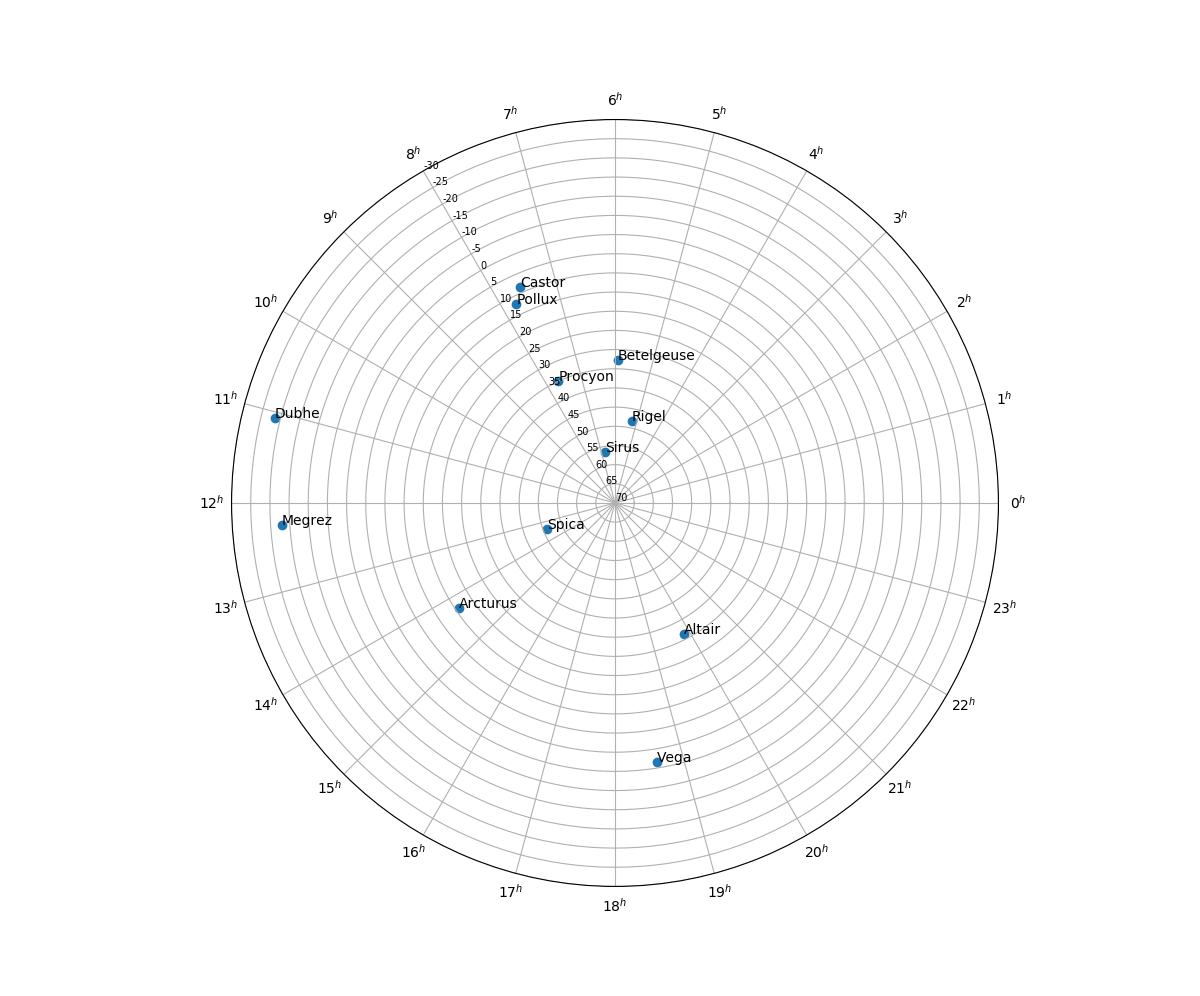
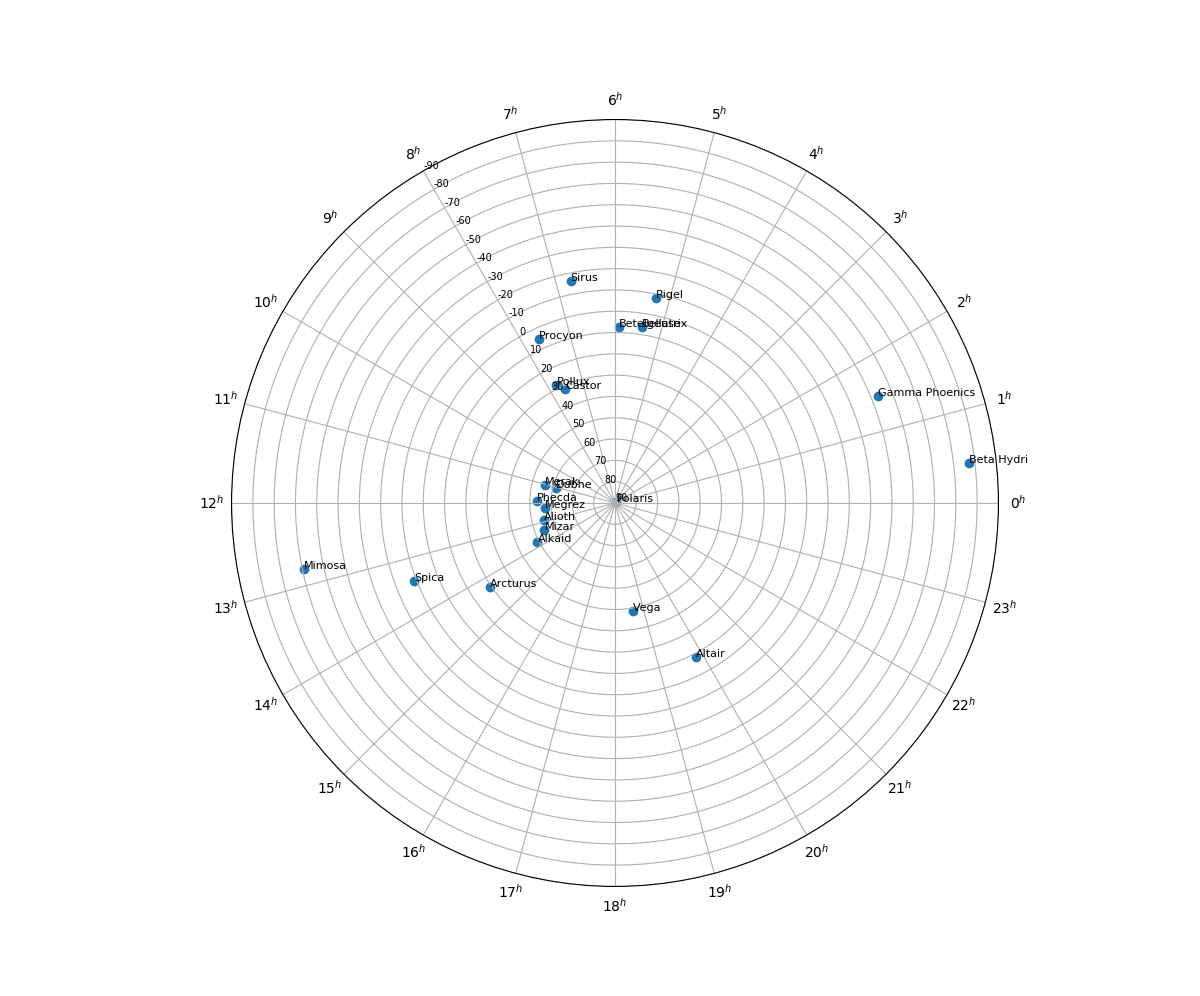
flip y declination values for flipped chart

Changed region(s): [[0.2158, 0.1245, 0.8325, 0.8715]]

diff --git a/page_x_astrolabe/generate_star_chart.py b/page_x_astrolabe/generate_star_chart.py
@@ -20,7 +20,7 @@ def convertRAhrtoRadians(star_list):
 		star[1] = ra_in_radians
 	return star_list
 
-def plotCircluar(star_list, northOrSouth, displayStarNamesLabels, displayDeclinationMarks):
+def plotCircluar(star_list, northOrSouth, displayStarNamesLabels, displayDeclinationNumbers):
 	# plot star chart as a circular graph
 	fig = plt.figure(figsize=(12,12), dpi=100)
 	ax = fig.subplots(subplot_kw={'projection': 'polar'})
@@ -43,33 +43,38 @@ def plotCircluar(star_list, northOrSouth, displayStarNamesLabels, displayDeclina
 	southern_chart_max = 30
 	full_declination_min = -90
 	full_declination_max = 90
-	
-	def displayDeclinationMarksOnAxix(declination_values):
+
+	# display declination lines on the chart from -min to +max
+	def displayDeclinationMarksOnAxis(declination_values):
 		# flip the internal axis to have the min declination on the outer ring and the max in the middle
-		ax.set_rlim(declination_values[0], declination_values[len(declination_values)-1])
-		if displayDeclinationMarks: # display axis
+		if displayDeclinationNumbers: # display axis
 			#ax.set_yticklabels(['$-80^{\circ}$', '$-70^{\circ}$', '$-60^{\circ}$'], fontsize=10)
 			plt.yticks(declination_values, fontsize=7)
 			ax.set_yticklabels(ax.get_yticks()[::-1])
 			ax.set_rlabel_position(120)
+			#ax.set_rlim(bottom=70, top=-30)
 		else:
 			plt.yticks(declination_values, fontsize=0) # do not display axis
-			ax.set_yticklabels(ax.get_yticks()[::-1])
-			ax.set_rlabel_position(120)
-			
+
 	# Split up chart into North/South hemisphere
 	if northOrSouth == "Both":
 		ax.set_ylim(full_declination_min, full_declination_max)
 		declination_values = np.arange(full_declination_min, full_declination_max+1, 10) # +1 to show max value in range
-		displayDeclinationMarksOnAxix(declination_values)
+		displayDeclinationMarksOnAxis(declination_values)
+		max_dec_value = full_declination_max
+		min_dec_value = full_declination_min
 	if northOrSouth == "North":
 		ax.set_ylim(northern_chart_min, northern_chart_max)
 		declination_values = np.arange(northern_chart_min, northern_chart_max+1, 5) # +1 to show max value in range
-		displayDeclinationMarksOnAxix(declination_values)
+		displayDeclinationMarksOnAxis(declination_values)
+		max_dec_value = northern_chart_max
+		min_dec_value = northern_chart_min
 	if northOrSouth == "South":
 		ax.set_ylim(southern_chart_min, southern_chart_max)
 		declination_values = np.arange(southern_chart_min, southern_chart_max+1, 5) # +1 to show max value in range
-		displayDeclinationMarksOnAxix(declination_values)
+		displayDeclinationMarksOnAxis(declination_values)
+		max_dec_value = southern_chart_max
+		max_dec_value = southern_chart_min
 
 	# convert to x and y values for stars
 	x_star_labels = []
@@ -78,13 +83,18 @@ def plotCircluar(star_list, northOrSouth, displayStarNamesLabels, displayDeclina
 	for star in star_list:
 		x_star_labels.append(star[0])
 		x_ra_values.append(star[1])
-		y_dec_values.append(star[2])
+		# flip the declination values to match the flipped declination marks
+		y_pos = (max_dec_value - star[2]) + min_dec_value
+		print("{0} = {1} = {2:4f}".format(star[0], star[2], y_pos))
+		print("{0} - {1} = {2:4f}".format(max_dec_value, star[2], max_dec_value - star[2]))
+		print("{0} + {1} = {2:4f}\n".format(max_dec_value - star[2], min_dec_value, y_pos))
+		y_dec_values.append(y_pos)
 	ax.scatter(x_ra_values, y_dec_values)
 
 	# label stars (optional)
 	if displayStarNamesLabels:
 		for i, txt in enumerate(x_star_labels):
-			ax.annotate(txt, (x_ra_values[i], y_dec_values[i]))
+			ax.annotate(txt, (x_ra_values[i], y_dec_values[i]), fontsize=8)
 
 	plt.show()
 	fig.savefig('star_chart.png', dpi=fig.dpi)
@@ -95,6 +105,11 @@ if __name__ == '__main__':
 	sirus_star = ["Sirus", "06.45.08", -16.42]
 	dubhe_star = ["Dubhe", "11.03.43", 61.45]
 	megrez_star = ["Megrez", "12.15.25", 57.01]
+	merak_star = ["Merak", "11.01.50", 56.22]
+	phecda_star = ["Phecda", "11.53.49", 53.41]
+	alioth_star = ["Alioth", "12.54.01", 55.57]
+	mizar_star = ["Mizar", "13.23.55", 54.55]
+	alkaid_star = ["Alkaid", "13.47.32", 49.18]
 	polaris_star = ["Polaris", "02.31.49", 89.15]
 	betelgeuse_star = ["Betelgeuse", "05.55.10", 7.24]
 	rigel_star = ["Rigel", "05.14.32", -8.12]
@@ -105,6 +120,7 @@ if __name__ == '__main__':
 	pollux_star = ["Pollux", "07.45.18", 28.01]
 	castor_star = ["Castor", "07.34.35", 31.53]
 	arcturus_star = ["Arcturus", "14.15.39", 19.10]
+	bellatrix_star = ["Bellatrix", "05.25.07", 6.20]
 	#Southern stars
 	mimosa_star = ["Mimosa", "12.47.43", -59.41]
 	gamma_phoenics_star = ["Gamma Phoenics", "01.28.21", -43.19]
@@ -114,6 +130,11 @@ if __name__ == '__main__':
 	northern_star_chart_list = [sirus_star,
 								dubhe_star,
 								megrez_star,
+								merak_star,
+								phecda_star,
+								alioth_star,
+								mizar_star,
+								alkaid_star,
 								polaris_star,
 								betelgeuse_star,
 								rigel_star,
@@ -123,11 +144,14 @@ if __name__ == '__main__':
 								procyon_star,
 								pollux_star,
 								castor_star,
-								arcturus_star]
+								arcturus_star,
+								bellatrix_star
+								]
 
 	southern_star_chart_list = [mimosa_star,
 								gamma_phoenics_star,
-								beta_hydri_star]
+								beta_hydri_star
+								]
 
 	star_chart_list = northern_star_chart_list + southern_star_chart_list
 
@@ -138,7 +162,7 @@ if __name__ == '__main__':
 
 	# Chart options
 	displayStarNames = True # display chart with star names (False/True)
-	displayDeclinationMarks = True # display declination marks (False/True)
-	northOrSouth = "North" # options: "North", "South", "Both" (changes the declination range)
+	displayDeclinationNumbers = True # display declination marks (False/True)
+	northOrSouth = "Both" # options: "North", "South", "Both" (changes the declination range)
 
-	plotCircluar(star_chart_list, northOrSouth, displayStarNames, displayDeclinationMarks)
+	plotCircluar(star_chart_list, northOrSouth, displayStarNames, displayDeclinationNumbers)
